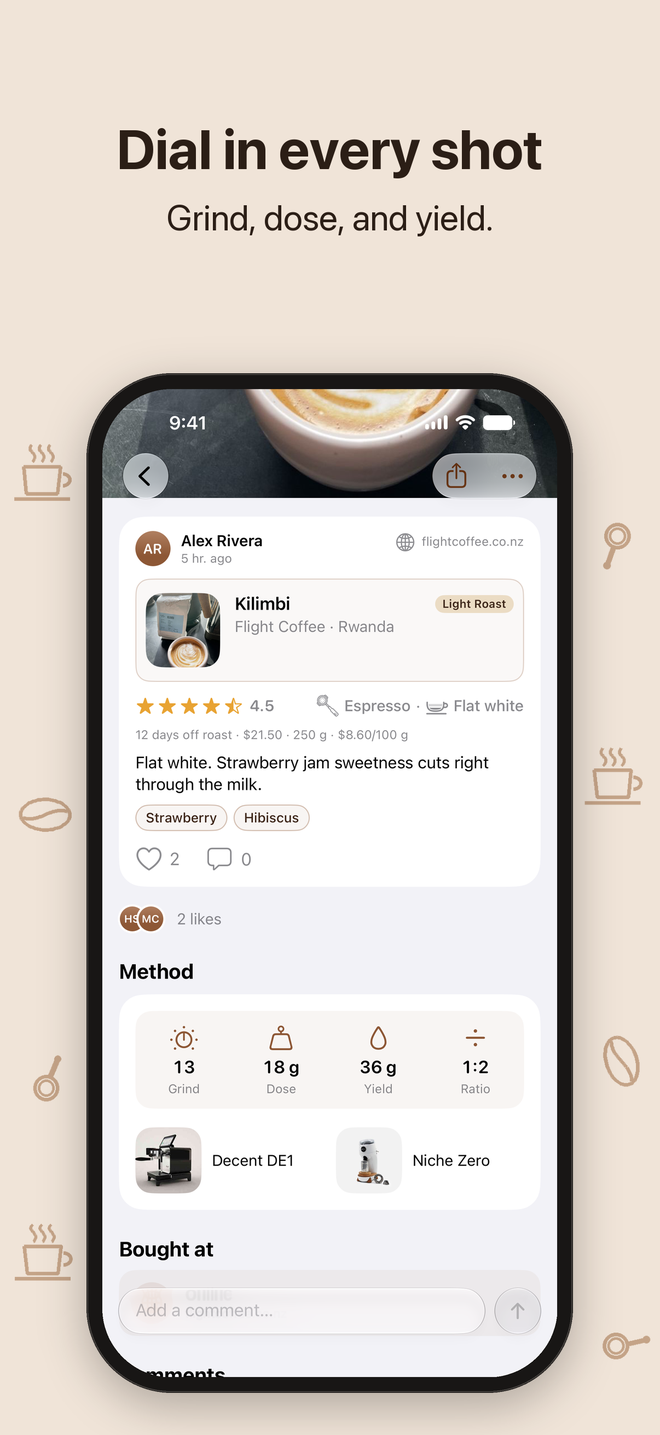
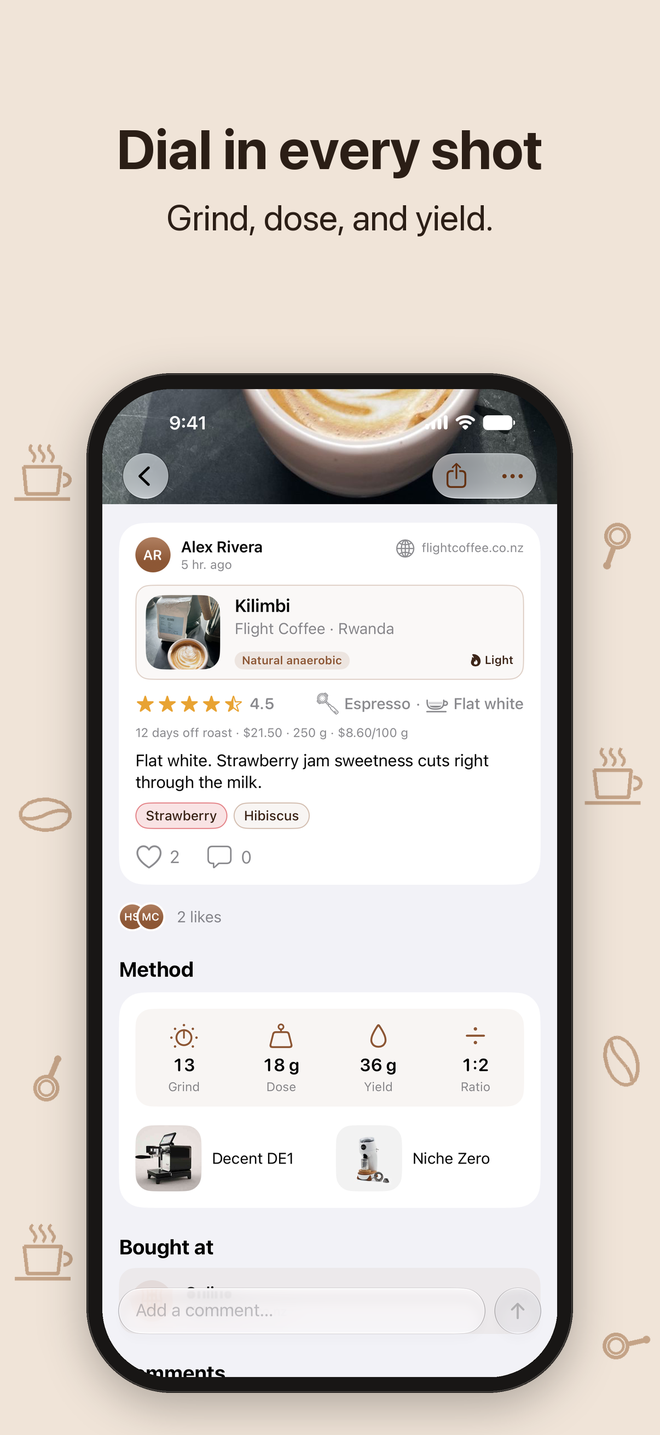
Bean page: the five screenshots on the App Store, in its order
Claude-Session: https://claude.ai/code/session_0136CDTkCdbbtS2VumDbrFBP

diff --git a/bean/index.md b/bean/index.md
@@ -46,7 +46,7 @@ title: "Bean: coffee reviews"
     </div>
     <div class="col mb-4">
         <figure class="shot mb-0">
-            <img src="/bean/screenshots/02-feed.png" loading="lazy" alt="The feed: friends' cups, rated and photographed">
+            <img src="/bean/screenshots/02-tastes.png" loading="lazy" alt="Naming the taste on the SCA flavor wheel, a tap on each note">
         </figure>
     </div>
     <div class="col mb-4">
@@ -56,7 +56,12 @@ title: "Bean: coffee reviews"
     </div>
     <div class="col mb-4">
         <figure class="shot mb-0">
-            <img src="/bean/screenshots/04-stats.png" loading="lazy" alt="My stats: cups, beans, roasters and brew methods added up">
+            <img src="/bean/screenshots/04-feed.png" loading="lazy" alt="The feed: friends' cups, rated and photographed">
+        </figure>
+    </div>
+    <div class="col mb-4">
+        <figure class="shot mb-0">
+            <img src="/bean/screenshots/05-stats.png" loading="lazy" alt="My stats: cups, beans, roasters and brew methods added up">
         </figure>
     </div>
 </div>
